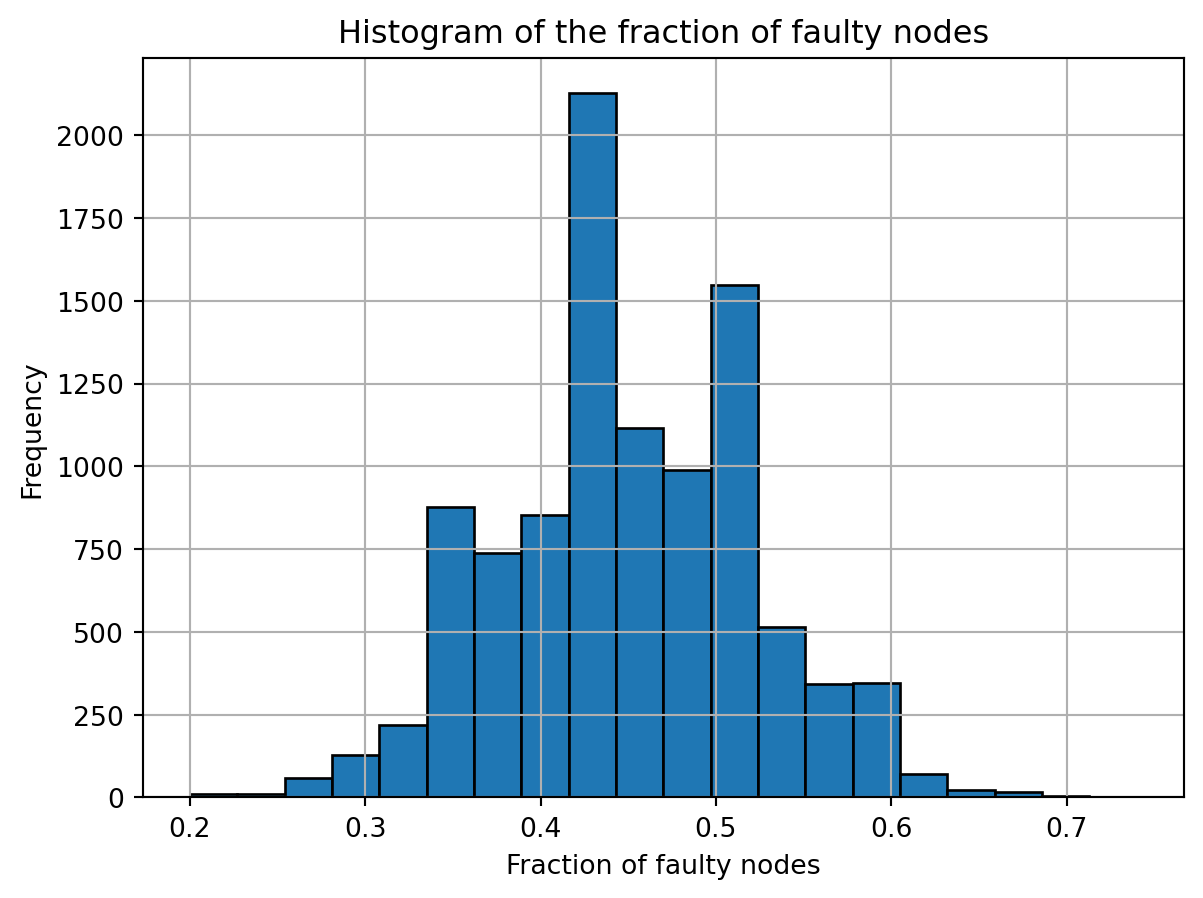
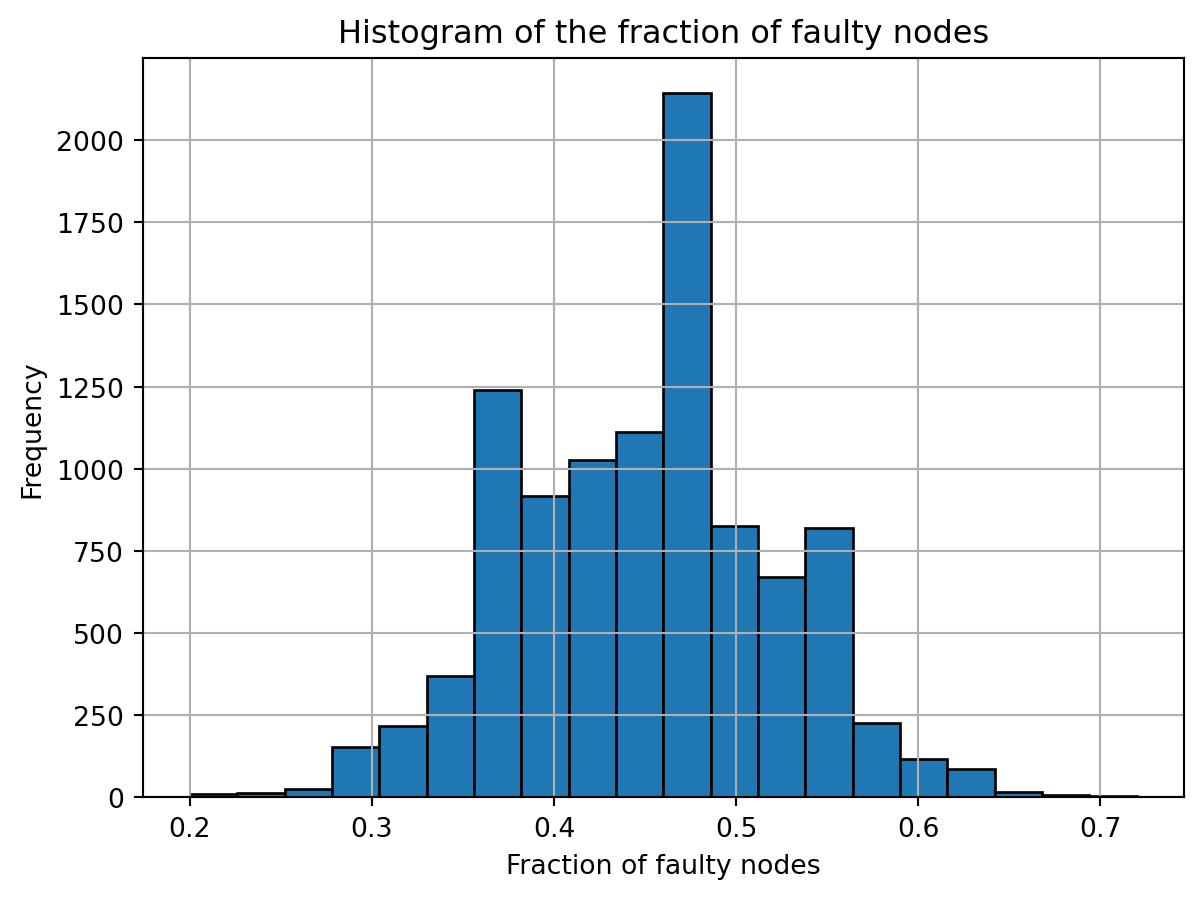
Add files via upload

diff --git a/07-proportional-rule.html b/07-proportional-rule.html
@@ -356,14 +356,14 @@ Exercise 7.3
 </section>
 <section id="characterization" class="level2" data-number="7.2">
 <h2 data-number="7.2" class="anchored" data-anchor-id="characterization"><span class="header-section-number">7.2</span> Characterization</h2>
-<p>In this section, we will show that the proportional rule is the only allocation rule that satisfies symmetry (P2), strong budget-balance (P3a), Sybil-proofness (P4) and collusion-proofness (P5)! We summarize this in the following theorem.</p>
+<p>In this section, we will show that the proportional rule is the only allocation rule that satisfies strong budget-balance (P2b), symmetry (P3), Sybil-proofness (P4) and collusion-proofness (P5)! We summarize this in the following theorem.</p>
 <div id="thm-characterization" class="theorem">
 <p><span class="theorem-title"><strong>Theorem 7.1 (Characterization of proportional rule)</strong></span> The proportional allocation rule <span class="math inline">x</span> that maps a vector <span class="math inline">\mu \in \mathbb{N}^*</span> of length <span class="math inline">n</span> to the vector <span class="math inline">x(\mu)</span> with <span class="math display">
 x_i(\mu) = \frac{\mu_i}{\sum_{j=1}^n \mu_j}
-</span> is the only allocation rule that satisfies symmetry (P2), strong budget-balance (P3a), Sybil-proofness (P4) and collusion-proofness (P5).</p>
+</span> is the only allocation rule that satisfies strong budget-balance (P2b), symmetry (P3), Sybil-proofness (P4) and collusion-proofness (P5).</p>
 </div>
 <div class="proof">
-<p><span class="proof-title"><em>Proof</em>. </span>In the previous section, we have shown (either in the text or in an exercise) that the proportional allocation rule satisfies (P2), (P3a), (P4) and (P5). It therefore remains to show that this is the <em>only</em> allocation rule that satisfies these four properties simultaneously. Therefore, assume that <span class="math inline">x</span> is an allocation rule that satisfies (P2), (P3a), (P4) and (P5).</p>
+<p><span class="proof-title"><em>Proof</em>. </span>In the previous section, we have shown (either in the text or in an exercise) that the proportional allocation rule satisfies (P2b), (P3), (P4) and (P5). It therefore remains to show that this is the <em>only</em> allocation rule that satisfies these four properties simultaneously. Therefore, assume that <span class="math inline">x</span> is an allocation rule that satisfies (P2b), (P3), (P4) and (P5).</p>
 <p>Recall that the vector <span class="math inline">\mu</span> only contains integers greater or equal than <span class="math inline">1</span>. We will prove the statement using induction on the number of entries strictly greater than <span class="math inline">1</span> in the vector <span class="math inline">\mu</span>. For a given vector <span class="math inline">\mu</span>, we use <span class="math inline">t</span> to denote this number, i.e., <span class="math display">
 t = |\{i : \mu_i &gt; 1\}|.
 </span></p>
@@ -373,7 +373,7 @@ t = |\{i : \mu_i &gt; 1\}|.
 m = \sum_{i=1}^n \mu_i
 </span> be the total hash rate of the vector <span class="math inline">\mu</span>.</p>
 <p>We first show that for all <span class="math inline">i \in \{1,\dots,t\} = [t]</span> it holds that <span class="math inline">x_i(\mu) = \mu_i/(\sum_j \mu_j)</span>, i.e., that every miner <span class="math inline">i \in [t]</span> is allocated their proportional share. We will do this using a proof by contradiction. We show that if <span class="math inline">x_i(\mu) &gt; \mu_i/(\sum_j \mu_j)</span>, then <span class="math inline">x</span> is not collusion-proof, and, using a similar argument, that if <span class="math inline">x_i(\mu) &lt; \mu_i/(\sum_j \mu_j)</span>, then <span class="math inline">x</span> is not Sybil-proof. We will come back to the miners with index <span class="math inline">i \in \{t+1,\dots,n\}</span> at the end of the proof.</p>
-<p>First suppose that <span class="math inline">x_i(\mu) &gt; \mu_i/(\sum_j \mu_j)</span> for some <span class="math inline">i \in [t]</span>. Consider the new vector <span class="math inline">\mu'</span> in which we split miner <span class="math inline">i</span> into <span class="math inline">\mu_i</span> “proxy” miners which we denote with the set <span class="math inline">S</span> (so that <span class="math inline">\mu_i = |S|</span>). Note that <span class="math inline">\mu'</span> has length <span class="math inline">n - 1 + |S|</span>. Recall that because <span class="math inline">x</span> is symmetric, it does not matter where in the vector <span class="math inline">\mu</span> we insert these new miners. Note that <span class="math inline">\mu'</span> has at most <span class="math inline">t - 1</span> entries strictly greater than <span class="math inline">1</span> (because <span class="math inline">\mu_i</span> is no longer there) and that <span class="math display">
+<p>First suppose that <span class="math inline">x_i(\mu) &gt; \mu_i/(\sum_j \mu_j)</span> for some <span class="math inline">i \in [t]</span>. Consider the new vector <span class="math inline">\mu'</span> in which we split miner <span class="math inline">i</span> into <span class="math inline">\mu_i</span> “proxy” miners, each with a hash rate of <span class="math inline">1</span>, that we denote with the set <span class="math inline">S</span> (so that <span class="math inline">\mu_i = |S|</span>). Note that <span class="math inline">\mu'</span> has length <span class="math inline">n - 1 + |S|</span>. Recall that because <span class="math inline">x</span> is symmetric, it does not matter where in the vector <span class="math inline">\mu</span> we insert these new miners. Note that <span class="math inline">\mu'</span> has at most <span class="math inline">t - 1</span> entries strictly greater than <span class="math inline">1</span> (because <span class="math inline">\mu_i</span> is no longer there) and that <span class="math display">
 \sum_{k=1}^{n-1+|S|} \mu_k' = m.
 </span> The induction hypothesis now tells us that in particular all the miners in <span class="math inline">j \in S</span> (with <span class="math inline">\mu_j' = 1</span>) get their proportional share, i.e., <span class="math inline">x_j(\mu') = 1/(\sum_k \mu_k') = 1/m</span>, meaning that <span class="math display">
 \sum_{j \in S} x_j(\mu') = \frac{|S|}{m} = \frac{\mu_i}{\sum_j \mu_j} &lt; x_i(\mu)
@@ -406,7 +406,7 @@ Exercise 7.5
 </div>
 </div>
 <div class="callout-body-container callout-body">
-<p>Consider the allocation rule that gives the unit reward to the miner with the highest hash rate in <span class="math inline">\mu</span>. If there are multiple miners with the highest hash rate, the unit reward is split evenly among them. Which of the axioms (P2), (P3a), (P4) and (P5) are satisfied, and which are not?</p>
+<p>Consider the allocation rule that gives the unit reward to the miner with the highest hash rate in <span class="math inline">\mu</span>. If there are multiple miners with the highest hash rate, the unit reward is split evenly among them. Which of the axioms (P2b), (P3), (P4) and (P5) are satisfied, and which are not?</p>
 </div>
 </div>
 </section>
@@ -533,7 +533,7 @@ Exercise 7.8
 <p>This shows that risk-aversion is not only a problem for the proportional allocation rule, but in fact this is an inherently difficult behavior to deal with in a blockchain protocol as it cannot be addressed by adjusting the allocation rule.</p>
 <p>We summarize the formal impossibility result in the theorem below.</p>
 <div id="thm-impossibility" class="theorem">
-<p><span class="theorem-title"><strong>Theorem 7.2 (Impossibility result)</strong></span> Let <span class="math inline">U</span> be a strictly concave utility function with <span class="math inline">U(1) &gt; U(0) = 0</span>. There does not exist an allocation rule that is symmetric (P2), strongly budget-balanced (P3a), Sybil-proof (P4-U), and <span class="math inline">U</span>-collision-proof (P5-U).</p>
+<p><span class="theorem-title"><strong>Theorem 7.2 (Impossibility result)</strong></span> Let <span class="math inline">U</span> be a strictly concave utility function with <span class="math inline">U(1) &gt; U(0) = 0</span>. There does not exist an allocation rule that is strongly budget-balanced (P2b), symmetric (P3), Sybil-proof (P4-U), and <span class="math inline">U</span>-collision-proof (P5-U).</p>
 </div>
 <div class="callout callout-style-default callout-tip callout-titled">
 <div class="callout-header d-flex align-content-center">

diff --git a/05-LongestChain.html b/05-LongestChain.html
@@ -630,7 +630,7 @@ Case ii) is essentially a generalization of case i): suppose that the integer $K
 </ul>
 <p>Can we turn this “on expectation” statement into a “with high probability” statement? To gain some intuition, you are invited to experiment with different values of <span class="math inline">\alpha</span> and <span class="math inline">K</span>, using the Python code snippets below.</p>
 <p>To create one such leader sequence, use the following code:</p>
-<div id="b6fff63e" class="cell" data-execution_count="1">
+<div id="a96efe19" class="cell" data-execution_count="1">
 <details class="code-fold">
 <summary>Code</summary>
 <div class="sourceCode cell-code" id="cb2"><pre class="sourceCode python code-with-copy"><code class="sourceCode python"><span id="cb2-1"><a href="#cb2-1" aria-hidden="true" tabindex="-1"></a><span class="im">import</span> numpy <span class="im">as</span> np</span>
@@ -652,7 +652,7 @@ Case ii) is essentially a generalization of case i): suppose that the integer $K
 <span id="cb2-17"><a href="#cb2-17" aria-hidden="true" tabindex="-1"></a>    <span class="cf">return</span> samples</span></code><button title="Copy to Clipboard" class="code-copy-button"><i class="bi"></i></button></pre></div>
 </details>
 </div>
-<div id="528e2356" class="cell" data-execution_count="2">
+<div id="6e2632a4" class="cell" data-execution_count="2">
 <div class="sourceCode cell-code" id="cb3"><pre class="sourceCode python code-with-copy"><code class="sourceCode python"><span id="cb3-1"><a href="#cb3-1" aria-hidden="true" tabindex="-1"></a><span class="co"># Example usage:</span></span>
 <span id="cb3-2"><a href="#cb3-2" aria-hidden="true" tabindex="-1"></a>K <span class="op">=</span> <span class="dv">10</span>      <span class="co"># number of leaders</span></span>
 <span id="cb3-3"><a href="#cb3-3" aria-hidden="true" tabindex="-1"></a>alpha <span class="op">=</span> <span class="fl">0.45</span> <span class="co"># probability of leader being faulty</span></span>
@@ -661,12 +661,12 @@ Case ii) is essentially a generalization of case i): suppose that the integer $K
 <span id="cb3-6"><a href="#cb3-6" aria-hidden="true" tabindex="-1"></a></span>
 <span id="cb3-7"><a href="#cb3-7" aria-hidden="true" tabindex="-1"></a><span class="bu">print</span>(<span class="st">"Fraction of faulty leaders:"</span>, np.<span class="bu">sum</span>(samples)<span class="op">/</span>K)</span></code><button title="Copy to Clipboard" class="code-copy-button"><i class="bi"></i></button></pre></div>
 <div class="cell-output cell-output-stdout">
-<pre><code>Sampled leaders: [1 0 1 0 0 0 1 1 0 0]
+<pre><code>Sampled leaders: [1 0 0 0 0 1 1 1 0 0]
 Fraction of faulty leaders: 0.4</code></pre>
 </div>
 </div>
 <p>If you run the above code several times, you will see that the outcome varies a bit. The following code allows you to run the process <span class="math inline">T</span> times and create a histogram of the fractions of faulty nodes.</p>
-<div id="1617a0a0" class="cell" data-execution_count="3">
+<div id="97d40df7" class="cell" data-execution_count="3">
 <details class="code-fold">
 <summary>Code</summary>
 <div class="sourceCode cell-code" id="cb5"><pre class="sourceCode python code-with-copy"><code class="sourceCode python"><span id="cb5-1"><a href="#cb5-1" aria-hidden="true" tabindex="-1"></a><span class="kw">def</span> sample_T_sequences(T, K, alpha):</span>
@@ -705,7 +705,7 @@ Fraction of faulty leaders: 0.4</code></pre>
   background-color: #ffffff;
 }
 </style>
-<div id="8fda96fe" class="cell" data-execution_count="4">
+<div id="83a36c19" class="cell" data-execution_count="4">
 <div class="sourceCode cell-code" id="cb6"><pre class="sourceCode python code-with-copy"><code class="sourceCode python"><span id="cb6-1"><a href="#cb6-1" aria-hidden="true" tabindex="-1"></a><span class="co"># Example usage:</span></span>
 <span id="cb6-2"><a href="#cb6-2" aria-hidden="true" tabindex="-1"></a>T <span class="op">=</span> <span class="dv">10000</span>     <span class="co"># Number of leader sequences</span></span>
 <span id="cb6-3"><a href="#cb6-3" aria-hidden="true" tabindex="-1"></a>K <span class="op">=</span> <span class="dv">50</span>       <span class="co"># Number of leaders per sequence</span></span>
@@ -719,7 +719,7 @@ Fraction of faulty leaders: 0.4</code></pre>
 <span id="cb6-11"><a href="#cb6-11" aria-hidden="true" tabindex="-1"></a><span class="co"># Plot the histogram of fractions</span></span>
 <span id="cb6-12"><a href="#cb6-12" aria-hidden="true" tabindex="-1"></a>plot_histogram(fractions)</span></code><button title="Copy to Clipboard" class="code-copy-button"><i class="bi"></i></button></pre></div>
 <div class="cell-output cell-output-stdout">
-<pre><code>The fraction of leader sequences that are balanced is: 0.7128</code></pre>
+<pre><code>The fraction of leader sequences that are balanced is: 0.7227</code></pre>
 </div>
 <div class="cell-output cell-output-display">
 <div class="quarto-figure quarto-figure-center">

diff --git a/08-tullock-contest.html b/08-tullock-contest.html
@@ -365,7 +365,7 @@ g_2(x) = 2 \cdot \frac{x}{8/9 + x} - x
   background-color: #ffffff;
 }
 </style>
-<div id="472d1b1c" class="cell" data-execution_count="1">
+<div id="9e7981a4" class="cell" data-execution_count="1">
 <details class="code-fold">
 <summary>Show code generating the plot below</summary>
 <div class="sourceCode cell-code" id="cb1"><pre class="sourceCode python code-with-copy"><code class="sourceCode python"><span id="cb1-1"><a href="#cb1-1" aria-hidden="true" tabindex="-1"></a><span class="im">import</span> numpy <span class="im">as</span> np</span>
@@ -643,7 +643,7 @@ Exercise 8.7
   background-color: #ffffff;
 }
 </style>
-<div id="5d63002f" class="cell" data-execution_count="2">
+<div id="ebd421f6" class="cell" data-execution_count="2">
 <details class="code-fold">
 <summary>Show code for executing best response dynamics</summary>
 <div class="sourceCode cell-code" id="cb3"><pre class="sourceCode python code-with-copy"><code class="sourceCode python"><span id="cb3-1"><a href="#cb3-1" aria-hidden="true" tabindex="-1"></a><span class="im">import</span> numpy <span class="im">as</span> np</span>
@@ -784,7 +784,7 @@ Exercise 8.8
 <span id="cb5-10"><a href="#cb5-10" aria-hidden="true" tabindex="-1"></a>    - Compute best response of miner i = t (mod n)</span>
 <span id="cb5-11"><a href="#cb5-11" aria-hidden="true" tabindex="-1"></a>    - Update value mu_i with the computed best response</span></code><button title="Copy to Clipboard" class="code-copy-button"><i class="bi"></i></button></pre></div>
 <p>In general, best response dynamics are not guaranteed to converge to an (<span class="math inline">\epsilon</span>-)PNE. This means that the while-loop in the pseudo-code above is not guaranteed to terminate. Let us look at such an example with two miners and <span class="math inline">\epsilon = 0</span>.</p>
-<div id="8537d5ee" class="cell" data-execution_count="3">
+<div id="8838f13e" class="cell" data-execution_count="3">
 <div class="sourceCode cell-code" id="cb6"><pre class="sourceCode python code-with-copy"><code class="sourceCode python"><span id="cb6-1"><a href="#cb6-1" aria-hidden="true" tabindex="-1"></a><span class="co"># Weight vector</span></span>
 <span id="cb6-2"><a href="#cb6-2" aria-hidden="true" tabindex="-1"></a>w <span class="op">=</span> np.array([<span class="fl">0.1</span>, <span class="dv">1</span>])</span>
 <span id="cb6-3"><a href="#cb6-3" aria-hidden="true" tabindex="-1"></a></span>
@@ -915,7 +915,7 @@ Exercise 8.11
   background-color: #ffffff;
 }
 </style>
-<div id="04804013" class="cell" data-execution_count="4">
+<div id="03b02d4f" class="cell" data-execution_count="4">
 <details class="code-fold">
 <summary>Show code for best response dynamics with potential function values</summary>
 <div class="sourceCode cell-code" id="cb8"><pre class="sourceCode python code-with-copy"><code class="sourceCode python"><span id="cb8-1"><a href="#cb8-1" aria-hidden="true" tabindex="-1"></a><span class="im">import</span> numpy <span class="im">as</span> np</span>
@@ -1149,7 +1149,7 @@ Exercise 8.16
   background-color: #ffffff;
 }
 </style>
-<div id="c63bff0e" class="cell" data-execution_count="5">
+<div id="7bbb778a" class="cell" data-execution_count="5">
 <details class="code-fold">
 <summary>Show code for solving maximization problem</summary>
 <div class="sourceCode cell-code" id="cb10"><pre class="sourceCode python code-with-copy"><code class="sourceCode python"><span id="cb10-1"><a href="#cb10-1" aria-hidden="true" tabindex="-1"></a><span class="im">import</span> numpy <span class="im">as</span> np</span>

diff --git a/06-ProofofWork.html b/06-ProofofWork.html
@@ -328,14 +328,14 @@ window.Quarto = {
 <h2 data-number="6.3" class="anchored" data-anchor-id="sha-256"><span class="header-section-number">6.3</span> SHA-256</h2>
 <p>Here we give a brief illustration of how hashing works. We will use as example the SHA-256 hash function. SHA stands for Secure Hash Algorithm. The number 256 refers to the number of bits of the output.</p>
 <p>We will use the python <code>hashlib</code> module, which we first need to import.</p>
-<div id="df9a29ac" class="cell" data-execution_count="1">
+<div id="694ef8f3" class="cell" data-execution_count="1">
 <details class="code-fold">
 <summary>Code</summary>
 <div class="sourceCode cell-code" id="cb1"><pre class="sourceCode python code-with-copy"><code class="sourceCode python"><span id="cb1-1"><a href="#cb1-1" aria-hidden="true" tabindex="-1"></a><span class="im">import</span> hashlib</span></code><button title="Copy to Clipboard" class="code-copy-button"><i class="bi"></i></button></pre></div>
 </details>
 </div>
 <p>Here is an example of how to use SHA256 to hash a short message. The input message will be ``Decentralized finance is cool!’’ and the output is a bitstring of length 256.</p>
-<div id="8ece5322" class="cell" data-execution_count="2">
+<div id="6d8b75c5" class="cell" data-execution_count="2">
 <div class="sourceCode cell-code" id="cb2"><pre class="sourceCode python code-with-copy"><code class="sourceCode python"><span id="cb2-1"><a href="#cb2-1" aria-hidden="true" tabindex="-1"></a><span class="co"># The message to hash</span></span>
 <span id="cb2-2"><a href="#cb2-2" aria-hidden="true" tabindex="-1"></a>message <span class="op">=</span> <span class="st">"Decentralized finance is cool!"</span></span>
 <span id="cb2-3"><a href="#cb2-3" aria-hidden="true" tabindex="-1"></a></span>
@@ -355,7 +355,7 @@ Length of the bitstring: 256</code></pre>
 </div>
 </div>
 <p>Let us now investigate the key property of hash functions: they look like a random function. In particular, this implies that it is hard to predict the output of the function. To illustrate this, let us hash a second message that is very similar to the first: ``Decentralized finance is cool!!!’’</p>
-<div id="c686713a" class="cell" data-execution_count="3">
+<div id="e6c339a2" class="cell" data-execution_count="3">
 <details class="code-fold">
 <summary>Code</summary>
 <div class="sourceCode cell-code" id="cb4"><pre class="sourceCode python code-with-copy"><code class="sourceCode python"><span id="cb4-1"><a href="#cb4-1" aria-hidden="true" tabindex="-1"></a><span class="co">### Second message </span></span>
@@ -378,7 +378,7 @@ Length of the bitstring: 256</code></pre>
 </div>
 </div>
 <p>If you compare the two strings, you will notice some differences right away. How different are the two strings? If the hash function assigns a random output to every input, then you would expect the two bitstrings to differ in roughly half their entries. Let us use python to count the number of different entries in the two strings.</p>
-<div id="10ebfd3f" class="cell" data-execution_count="4">
+<div id="17d76d90" class="cell" data-execution_count="4">
 <details class="code-fold">
 <summary>Code</summary>
 <div class="sourceCode cell-code" id="cb6"><pre class="sourceCode python code-with-copy"><code class="sourceCode python"><span id="cb6-1"><a href="#cb6-1" aria-hidden="true" tabindex="-1"></a><span class="kw">def</span> count_differences(bitstring1, bitstring2):</span>
